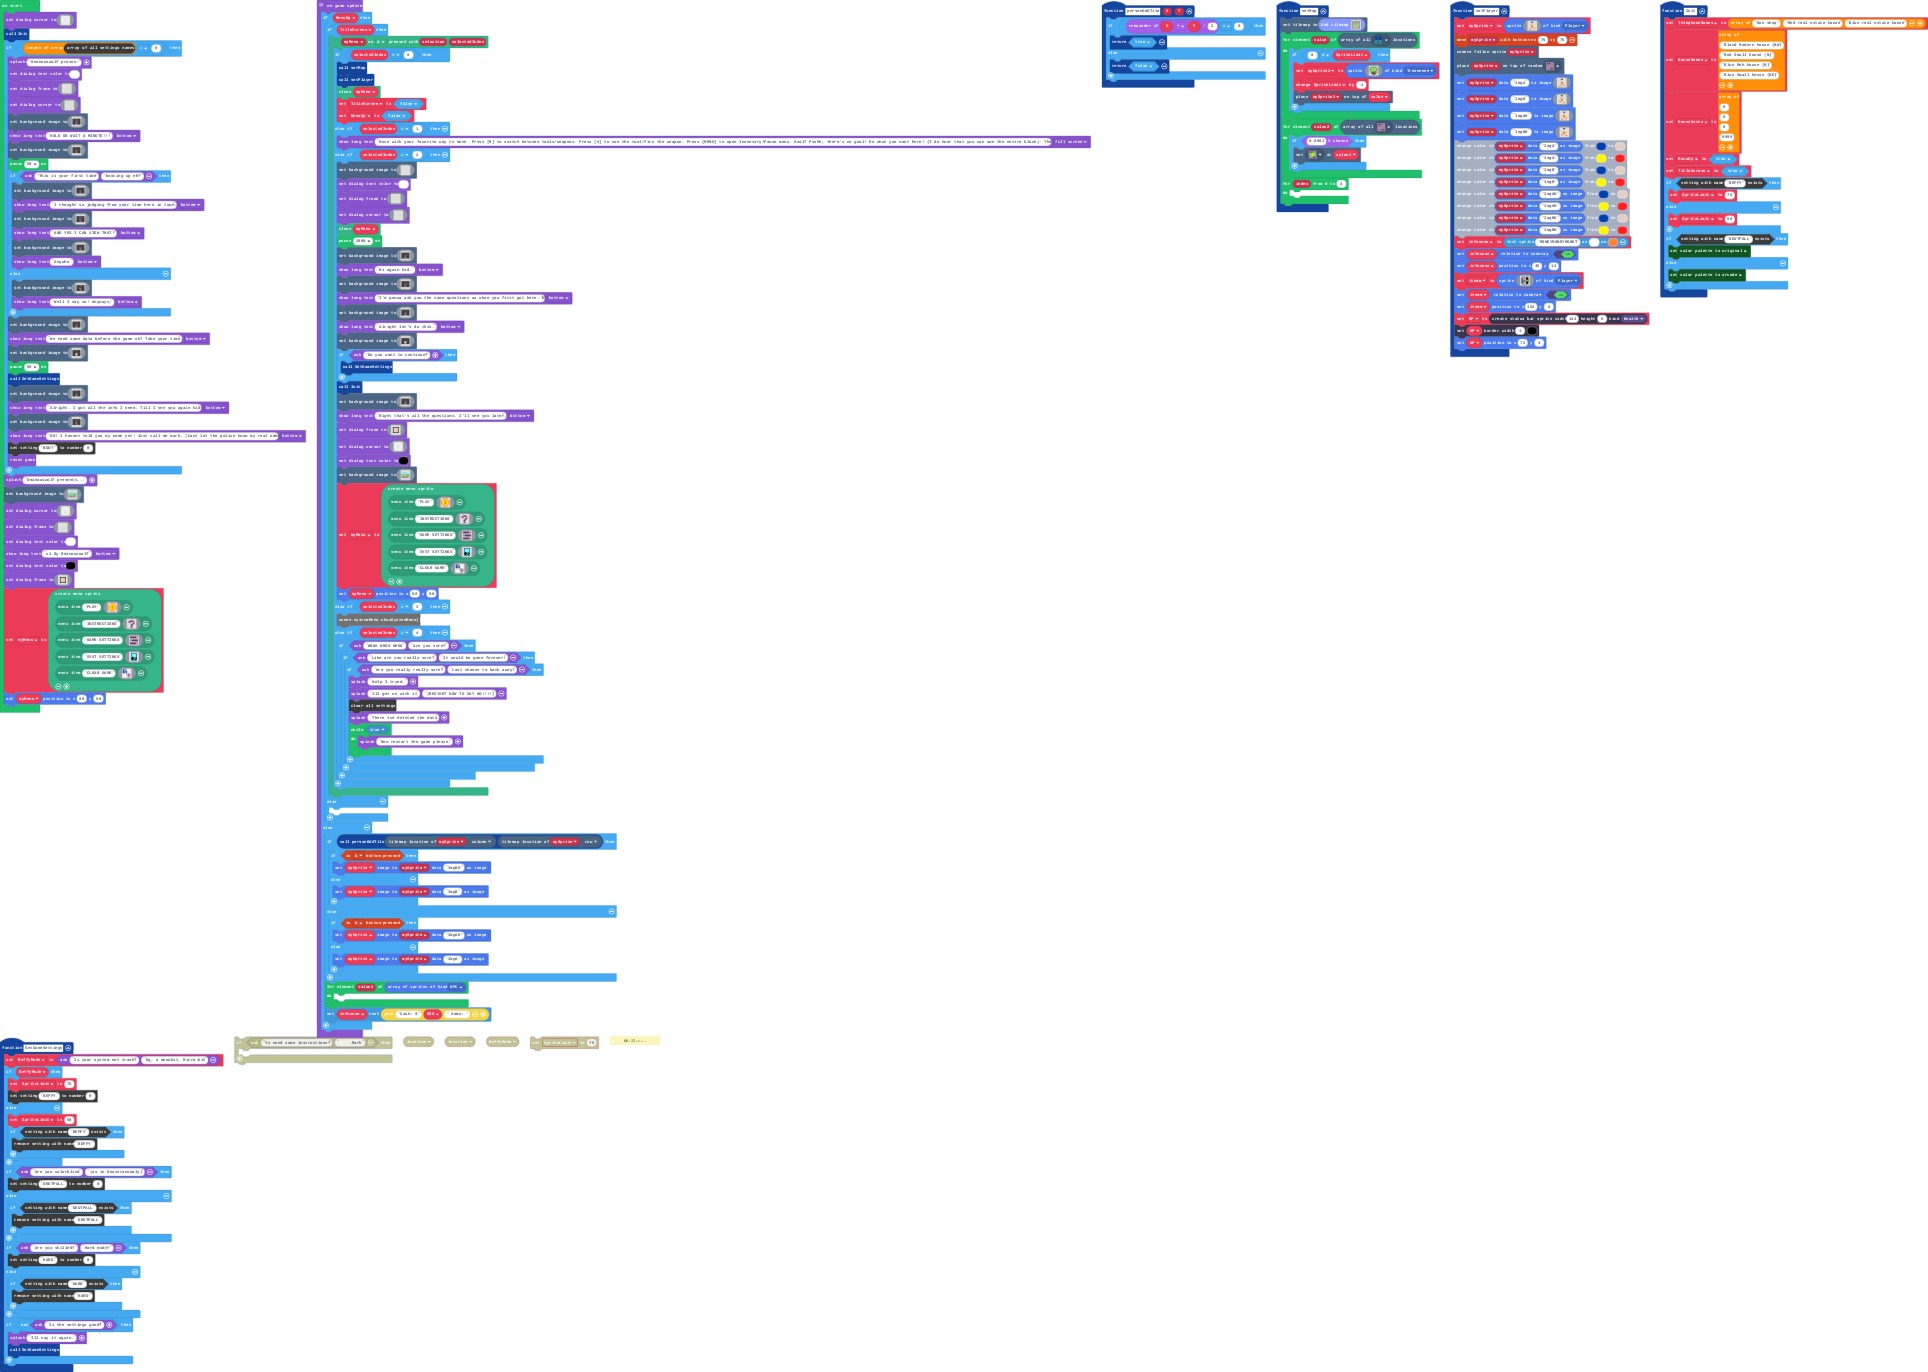
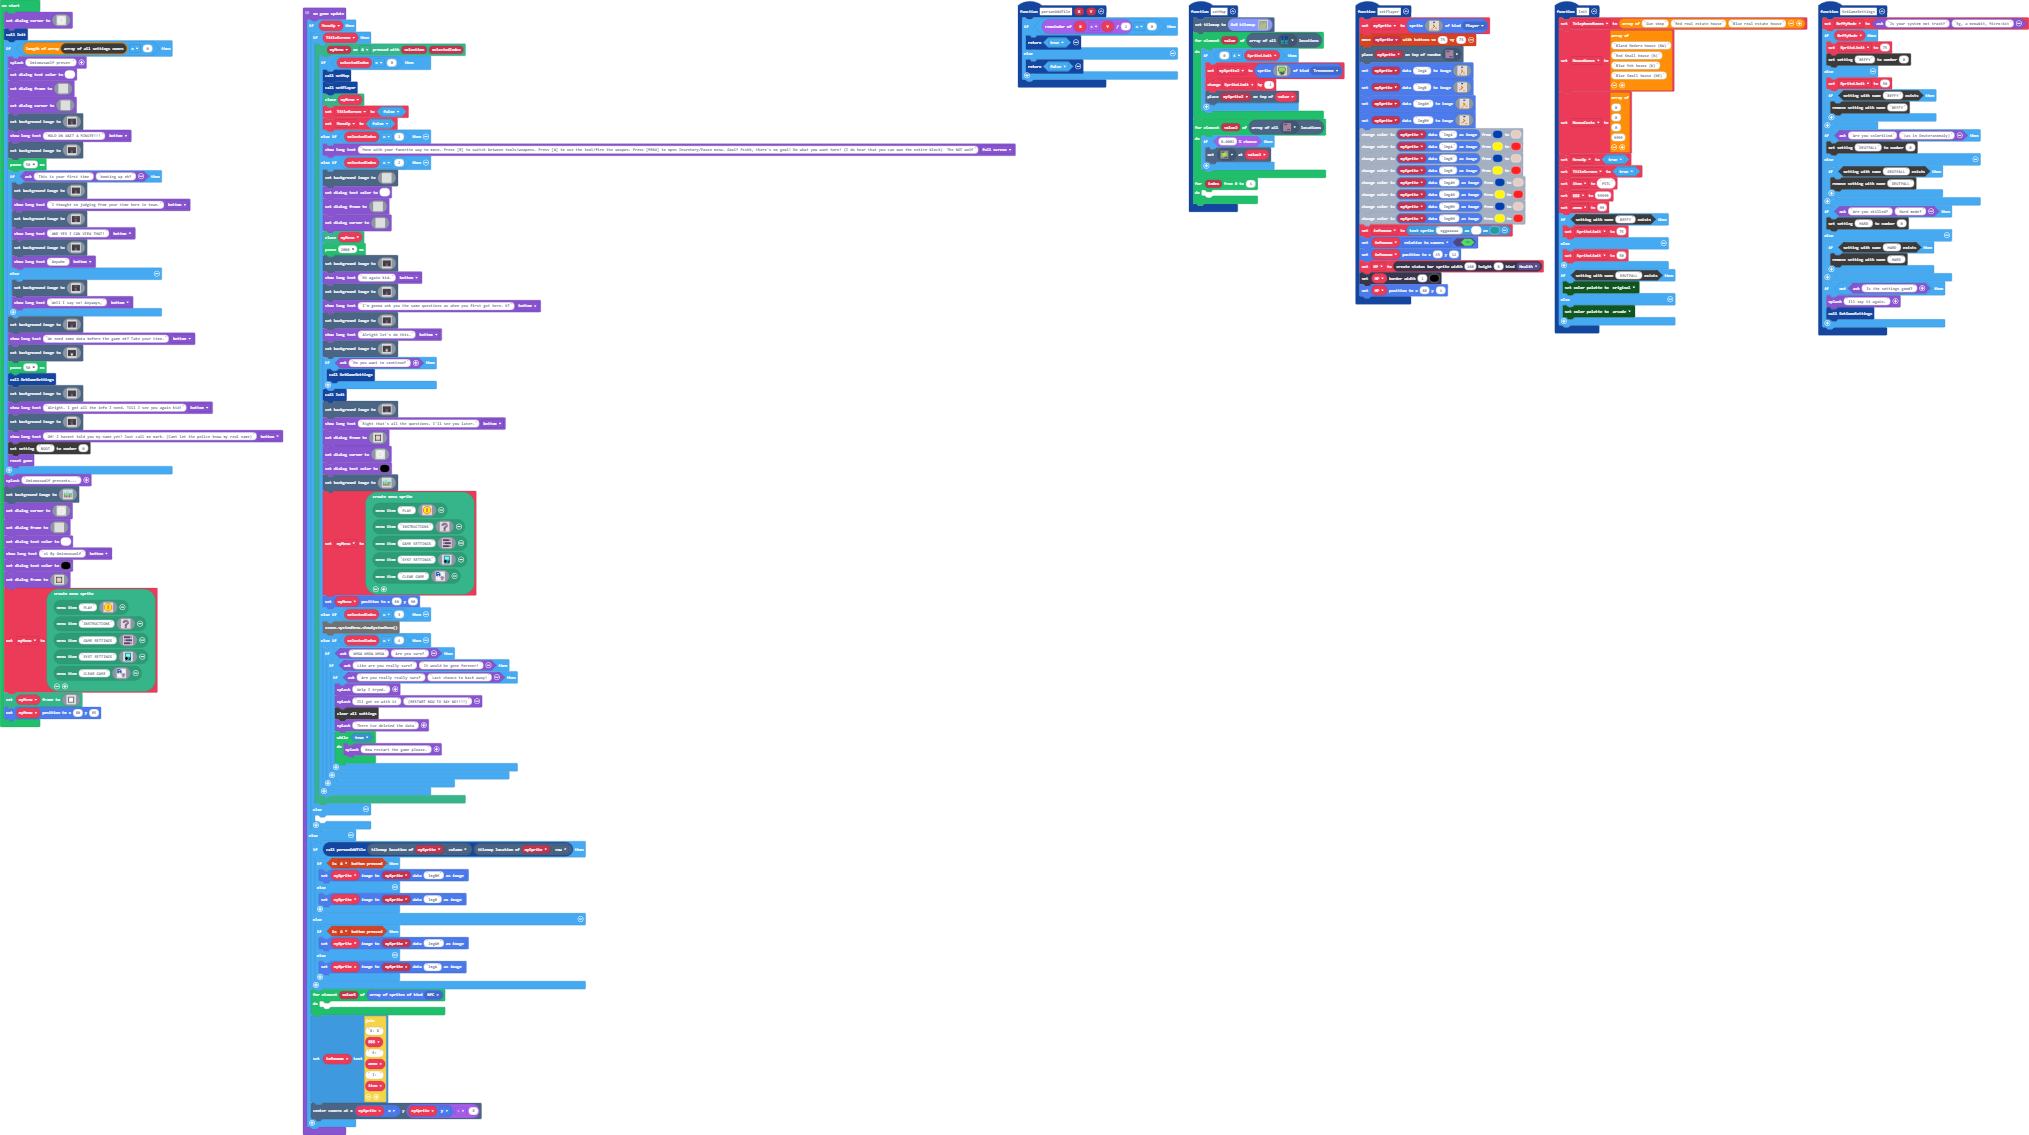
Removed item box.

Changed region(s): [[0.0, 0.0, 1.0, 1.0]]

diff --git a/main.ts b/main.ts
@@ -23,7 +23,6 @@ function setMap () {
 function setPlayer () {
     mySprite = sprites.create(assets.image`PersonA`, SpriteKind.Player)
     controller.moveSprite(mySprite, 75, 75)
-    scene.cameraFollowSprite(mySprite)
     tiles.placeOnRandomTile(mySprite, assets.tile`stone`)
     sprites.setDataImageValue(mySprite, "ImgA", assets.image`PersonA`)
     sprites.setDataImageValue(mySprite, "ImgB", assets.image`PlayerB`)
@@ -37,15 +36,12 @@ function setPlayer () {
     sprites.readDataImage(mySprite, "ImgAH").replace(5, 2)
     sprites.readDataImage(mySprite, "ImgBH").replace(8, 13)
     sprites.readDataImage(mySprite, "ImgBH").replace(5, 2)
-    infooooo = textsprite.create("MONEYMONEYMONEY", 4, 1)
+    infooooo = textsprite.create("oggaaaaa", 6, 1)
     infooooo.setFlag(SpriteFlag.RelativeToCamera, true)
     infooooo.setPosition(45, 12)
-    itemm = sprites.create(assets.image`ItemSel`, SpriteKind.Player)
-    itemm.setFlag(SpriteFlag.RelativeToCamera, true)
-    itemm.setPosition(152, 8)
-    HP = statusbars.create(144, 8, StatusBarKind.Health)
+    HP = statusbars.create(160, 8, StatusBarKind.Health)
     HP.setBarBorder(1, 15)
-    HP.setPosition(72, 4)
+    HP.setPosition(80, 4)
 }
 function personOddTile (X: number, Y: number) {
     if ((X + Y) % 2 == 0) {
@@ -100,6 +96,9 @@ function Init () {
     ]
     MenuUp = true
     TitleScreen = true
+    item = "PSTL"
+    $$$ = 99999
+    ammo = 99
     if (blockSettings.exists("BEFFY")) {
         SpriteLimit = 75
     } else {
@@ -115,6 +114,9 @@ function Init () {
         )
     }
 }
+let ammo = 0
+let $$$ = 0
+let item = ""
 let TitleScreen = false
 let MenuUp = false
 let HouseCosts: number[] = []
@@ -122,7 +124,6 @@ let HouseNames: string[] = []
 let TelephoneNames: string[] = []
 let BeffyMode = false
 let HP: StatusBarSprite = null
-let itemm: Sprite = null
 let infooooo: TextSprite = null
 let mySprite: Sprite = null
 let mySprite2: Sprite = null
@@ -176,16 +177,8 @@ miniMenu.createMenuItem("GAME SETTINGS", assets.image`gameset`),
 miniMenu.createMenuItem("SYST SETTINGS", assets.image`consset`),
 miniMenu.createMenuItem("CLEAR GAME", assets.image`DestroyDataaaaa`)
 )
-myMenu.setPosition(80, 90)
-/**
- * 60
- * 
- * -15
- * 
- * ------
- * 
- * _45
- */
+myMenu.setFrame(assets.image`MenuBox`)
+myMenu.setPosition(80, 85)
 // (Funny concept for homes)
 // 
 // Red & Blue: 3/4 added
@@ -382,7 +375,6 @@ game.onUpdate(function () {
         	
         }
     } else {
-        let $$$ = 0
         if (personOddTile(mySprite.tilemapLocation().column, mySprite.tilemapLocation().row)) {
             if (controller.A.isPressed()) {
                 mySprite.setImage(sprites.readDataImage(mySprite, "ImgBH"))
@@ -399,6 +391,7 @@ game.onUpdate(function () {
         for (let value3 of sprites.allOfKind(SpriteKind.NPC)) {
         	
         }
-        infooooo.setText("Cash: $" + $$$ + " Ammo: ")
+        infooooo.setText("$: $" + $$$ + " E: " + ammo + " I: " + item)
+        scene.centerCameraAt(mySprite.x, mySprite.y - 8)
     }
 })

diff --git a/images.g.ts b/images.g.ts
@@ -1069,6 +1069,25 @@ fffffffffffffffffffffffffffffffffffffffffffffffffffffffffffffccccccccccccccccccc
 1 f f f f f f f f f f f f f f 1 
 1 1 1 1 1 1 1 1 1 1 1 1 1 1 1 1 
 `;
+            case "image27":
+            case "MenuBox":return img`
+. . . . . . . . . . . . . . . . 
+. . . . . . . . . . . . . . . . 
+. . . f f f f f f f f f f . . . 
+. . . f 1 1 1 1 1 1 1 1 f . . . 
+. . . f 1 1 1 1 1 1 1 1 f . . . 
+. . . f 1 1 1 1 1 1 1 1 f . . . 
+. . . f 1 1 1 1 1 1 1 1 f . . . 
+. . . f 1 1 1 1 1 1 1 1 f . . . 
+. . . f 1 1 1 1 1 1 1 1 f . . . 
+. . . f 1 1 1 1 1 1 1 1 f . . . 
+. . . f 1 1 1 1 1 1 1 1 f . . . 
+. . . f 1 1 1 1 1 1 1 1 f . . . 
+. . . f 1 1 1 1 1 1 1 1 f . . . 
+. . . f f f f f f f f f f . . . 
+. . . . . . . . . . . . . . . . 
+. . . . . . . . . . . . . . . . 
+`;
         }
         return null;
     })
